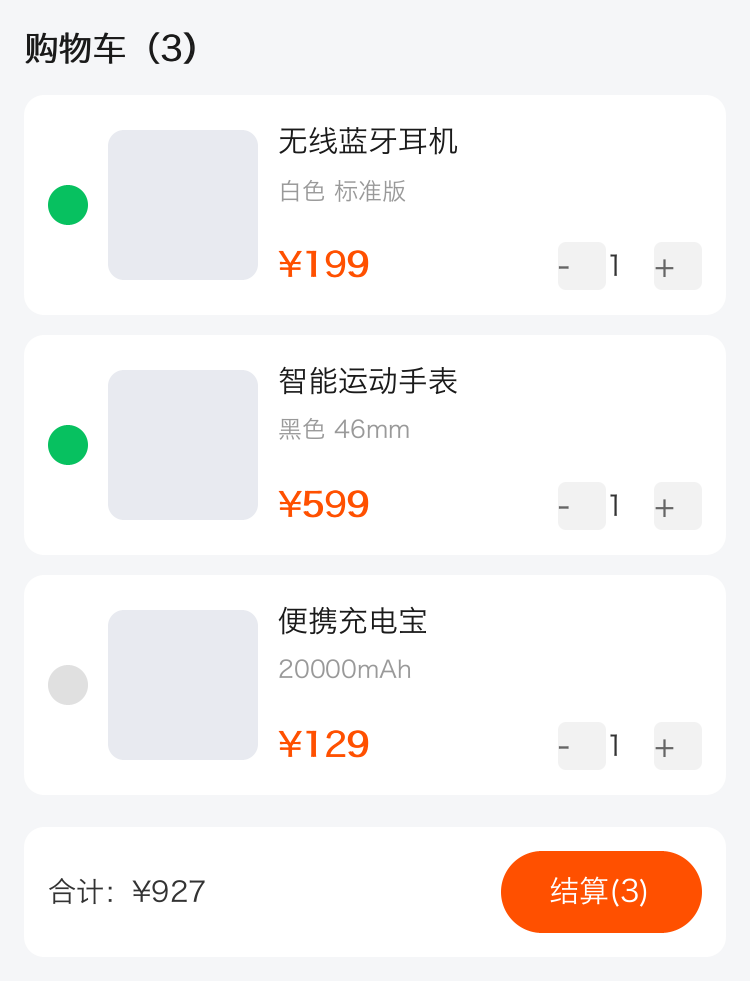
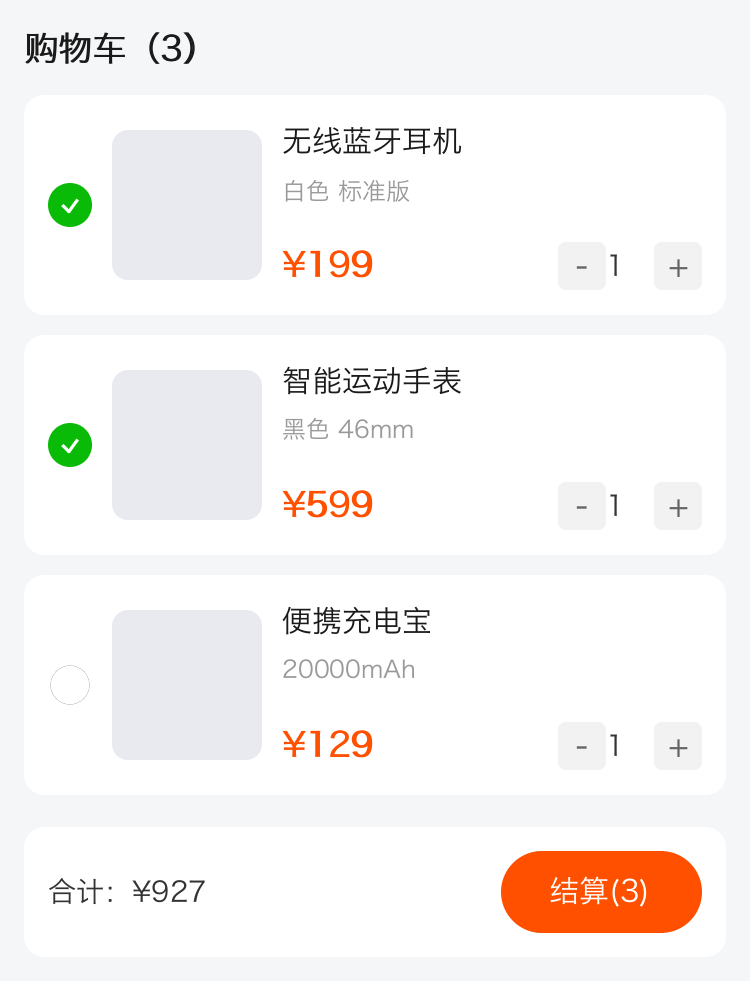
优化代码

diff --git a/src/renderer/components/text.rs b/src/renderer/components/text.rs
@@ -53,10 +53,11 @@ impl TextComponent {
         ts.size.height = length(text_height);
         ts.min_size.height = length(text_height);
         
-        // 如果 CSS 没有设置宽度，根据 display 属性决定宽度
-        // display: block 时使用 100%，否则使用估算的文本宽度
+        // 如果 CSS 没有设置宽度，根据 display / text-align 决定宽度
+        // display:block 或 text-align 为 center/right 时使用 100%（便于水平对齐），
+        // 否则使用估算的文本宽度
         if matches!(ts.size.width, Dimension::Auto) {
-            if ns.is_block {
+            if ns.is_block || matches!(ns.text_align, TextAlign::Center | TextAlign::Right) {
                 ts.size.width = Dimension::Percent(1.0);
             } else {
                 // 使用估算的文本宽度
@@ -129,15 +130,24 @@ impl TextComponent {
             } else {
                 // 单行：在盒内垂直居中（基线 ≈ 盒中心 + 0.34*字号）
                 let baseline = y + h / 2.0 + size * 0.34;
+                // 水平对齐：text-align center/right 时在盒内做水平偏移
+                let align_dx = if w > text_w {
+                    match node.style.text_align {
+                        TextAlign::Center => (w - text_w) / 2.0,
+                        TextAlign::Right => w - text_w,
+                        _ => 0.0,
+                    }
+                } else { 0.0 };
+                let ax = x + align_dx;
                 if w > 0.0 && use_ellipsis && text_w > w {
                     draw_text_with_ellipsis(canvas, tr, text, x, baseline, size, w, letter_spacing, &paint);
                     if is_bold {
                         draw_text_with_ellipsis(canvas, tr, text, x + bold_dx, baseline, size, w, letter_spacing, &paint);
                     }
                 } else {
-                    tr.draw_text_with_spacing(canvas, text, x, baseline, size, letter_spacing, &paint);
+                    tr.draw_text_with_spacing(canvas, text, ax, baseline, size, letter_spacing, &paint);
                     if is_bold {
-                        tr.draw_text_with_spacing(canvas, text, x + bold_dx, baseline, size, letter_spacing, &paint);
+                        tr.draw_text_with_spacing(canvas, text, ax + bold_dx, baseline, size, letter_spacing, &paint);
                     }
                 }
             }

diff --git a/examples/gallery.rs b/examples/gallery.rs
@@ -197,11 +197,12 @@ fn product_detail() {
 
 // 4. 购物车
 fn cart() {
-    let wxml = r#"
+    let wxml = r##"
     <view class="page">
         <text class="head">购物车（3）</text>
         <view class="card row" wx:for="{{items}}" wx:key="id">
-            <view class="check {{item.checked ? 'on' : ''}}"></view>
+            <icon class="ck" wx:if="{{item.checked}}" type="success" size="22" />
+            <icon class="ck" wx:else type="circle" size="22" color="#cccccc" />
             <view class="thumb"></view>
             <view class="col grow info">
                 <text class="name">{{item.name}}</text>
@@ -220,13 +221,12 @@ fn cart() {
             <text class="total">合计：<text class="tp">¥927</text></text>
             <view class="checkout">结算(3)</view>
         </view>
-    </view>"#;
+    </view>"##;
     let wxss = r#"
     .page{ padding:24rpx; }
     .head{ font-size:34rpx; font-weight:bold; color:#1a1a1a; margin-bottom:20rpx; }
     .card{ background-color:#fff; border-radius:20rpx; padding:24rpx; margin-bottom:20rpx; display:flex; flex-direction:row; align-items:center; }
-    .check{ width:40rpx; height:40rpx; border-radius:20rpx; background-color:#e0e0e0; margin-right:20rpx; }
-    .check.on{ background-color:#07c160; }
+    .ck{ margin-right:20rpx; }
     .thumb{ width:150rpx; height:150rpx; border-radius:16rpx; background-color:#e8eaf0; }
     .info{ margin-left:20rpx; flex:1; display:flex; flex-direction:column; }
     .row{ display:flex; flex-direction:row; align-items:center; }

diff --git a/src/renderer/wxml_renderer.rs b/src/renderer/wxml_renderer.rs
@@ -11,7 +11,7 @@ use std::collections::HashMap;
 use taffy::prelude::*;
 
 use super::components::{
-    RenderNode, NodeStyle, ComponentContext, InheritedText,
+    RenderNode, NodeStyle, ComponentContext, InheritedText, TextAlign,
     ViewComponent, TextComponent, ButtonComponent, IconComponent,
     ProgressComponent, SwitchComponent, CheckboxComponent, RadioComponent,
     SliderComponent, InputComponent, ImageComponent, VideoComponent,
@@ -489,8 +489,14 @@ impl WxmlRenderer {
             let fs = inherited.font_size;
             let line_h = inherited.line_height.unwrap_or(fs * 1.4);
             let tw = self.measure_text(text, fs * sf);
+            // 居中/右对齐的文本撑满可用宽度，绘制时再按对齐做偏移（否则无法居中）
+            let width_dim: Dimension = if matches!(inherited.align, TextAlign::Center | TextAlign::Right) {
+                percent(1.0)
+            } else {
+                length(tw + 2.0 * sf)
+            };
             let tn = taffy.new_leaf(Style {
-                size: Size { width: length(tw + 2.0 * sf), height: length(line_h * sf) },
+                size: Size { width: width_dim, height: length(line_h * sf) },
                 ..Default::default()
             }).unwrap();
             return Some(RenderNode {
